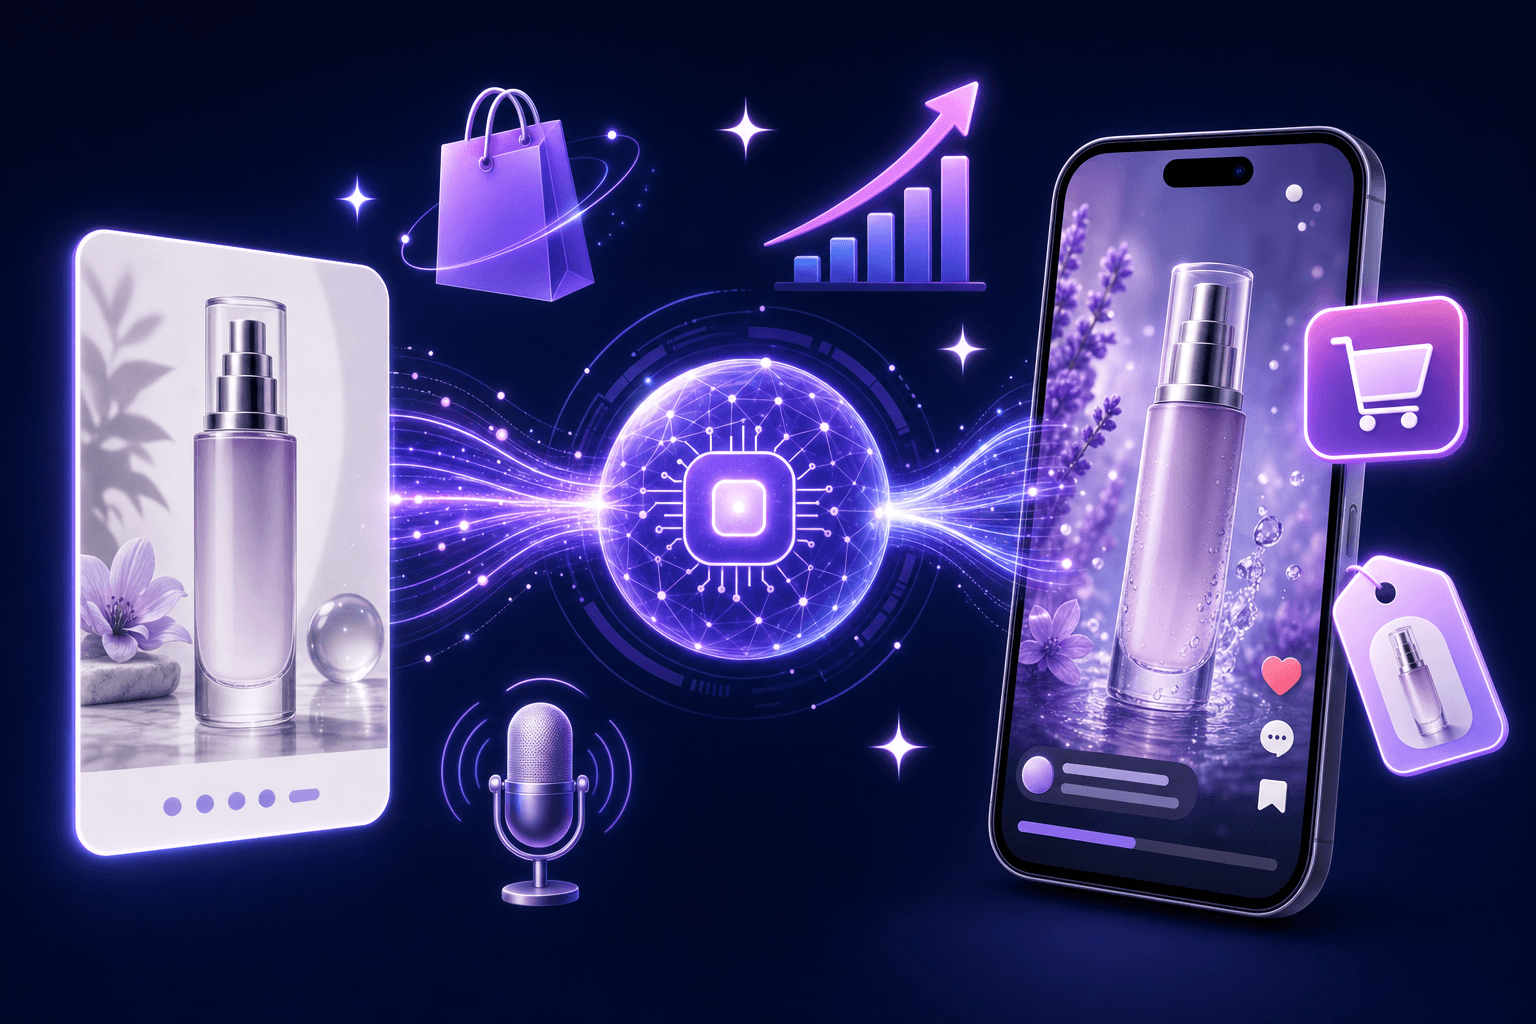
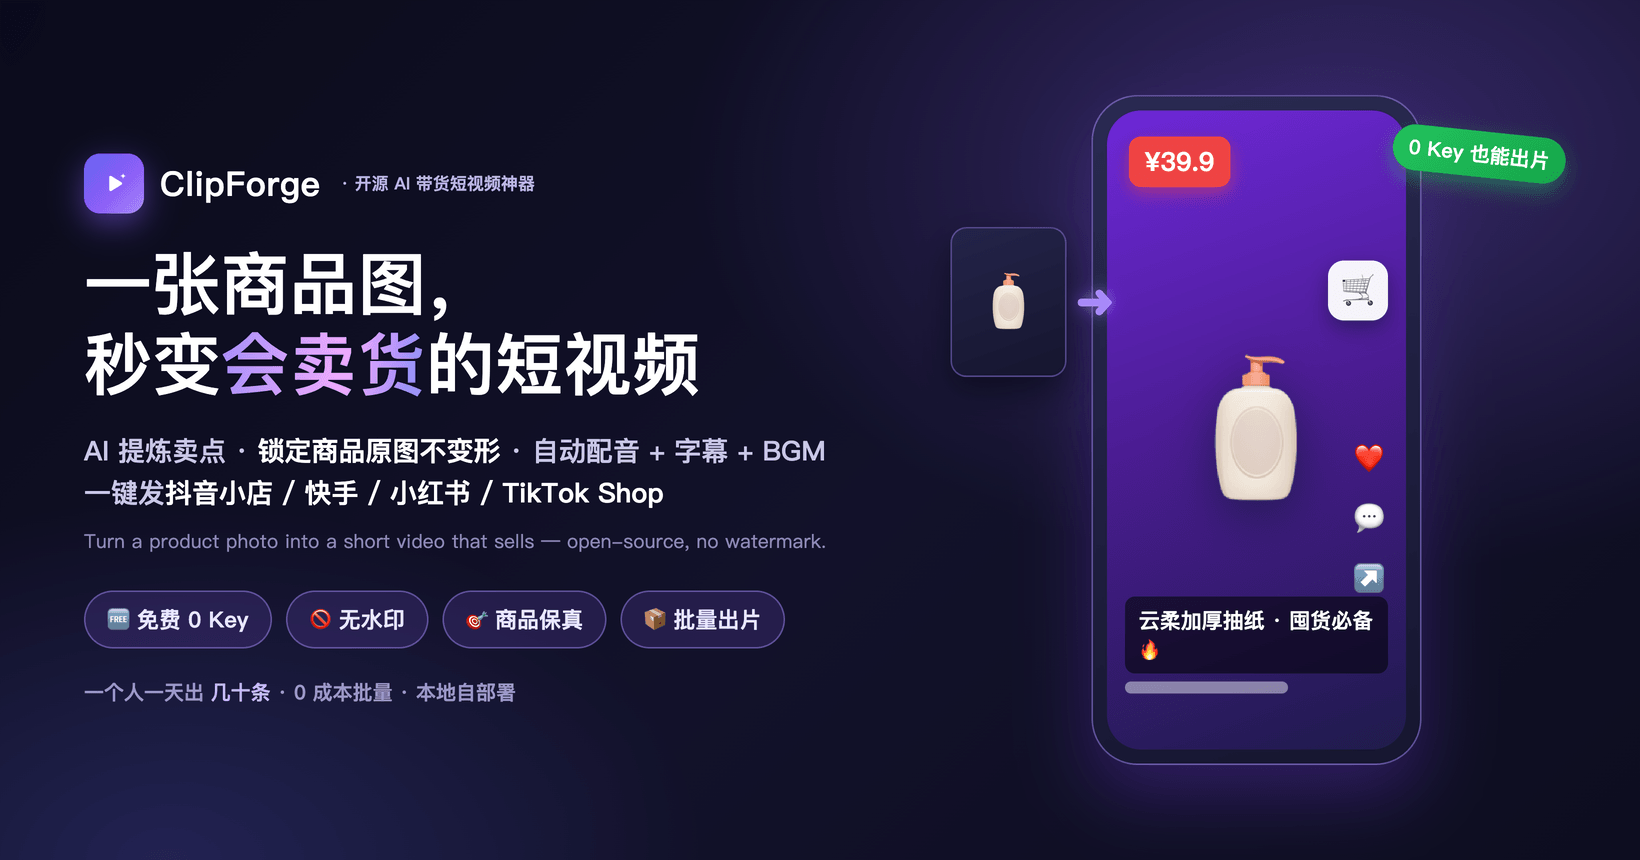
docs(readme): replace AI-illustration hero with a clean designed 带货 hero (brand typography + product-to-sales-video mockup, real text)

diff --git a/README.en.md b/README.en.md
@@ -25,7 +25,7 @@
 
 > Two ways to create: **🛍️ Product → sales video** (main use case), or **🗣️ one-sentence → faceless topic video** for any non-commerce subject.
 
-<p align="center"><img src="docs/hero.png" alt="ClipForge pipeline: one sentence or a product photo → AI script → auto stock footage → free voiceover → subtitles → vertical video" width="820"/></p>
+<p align="center"><img src="docs/hero.png" alt="ClipForge — turn a product photo into a sales-driving short video for TikTok Shop / Douyin / Kuaishou / Xiaohongshu: AI selling points, product-fidelity, auto voiceover + subtitles, no watermark" width="820"/></p>
 
 > Self-hosted · No watermark · Bilingual UI (中文 / English, auto-detected from your system language) · FFmpeg-powered.
 